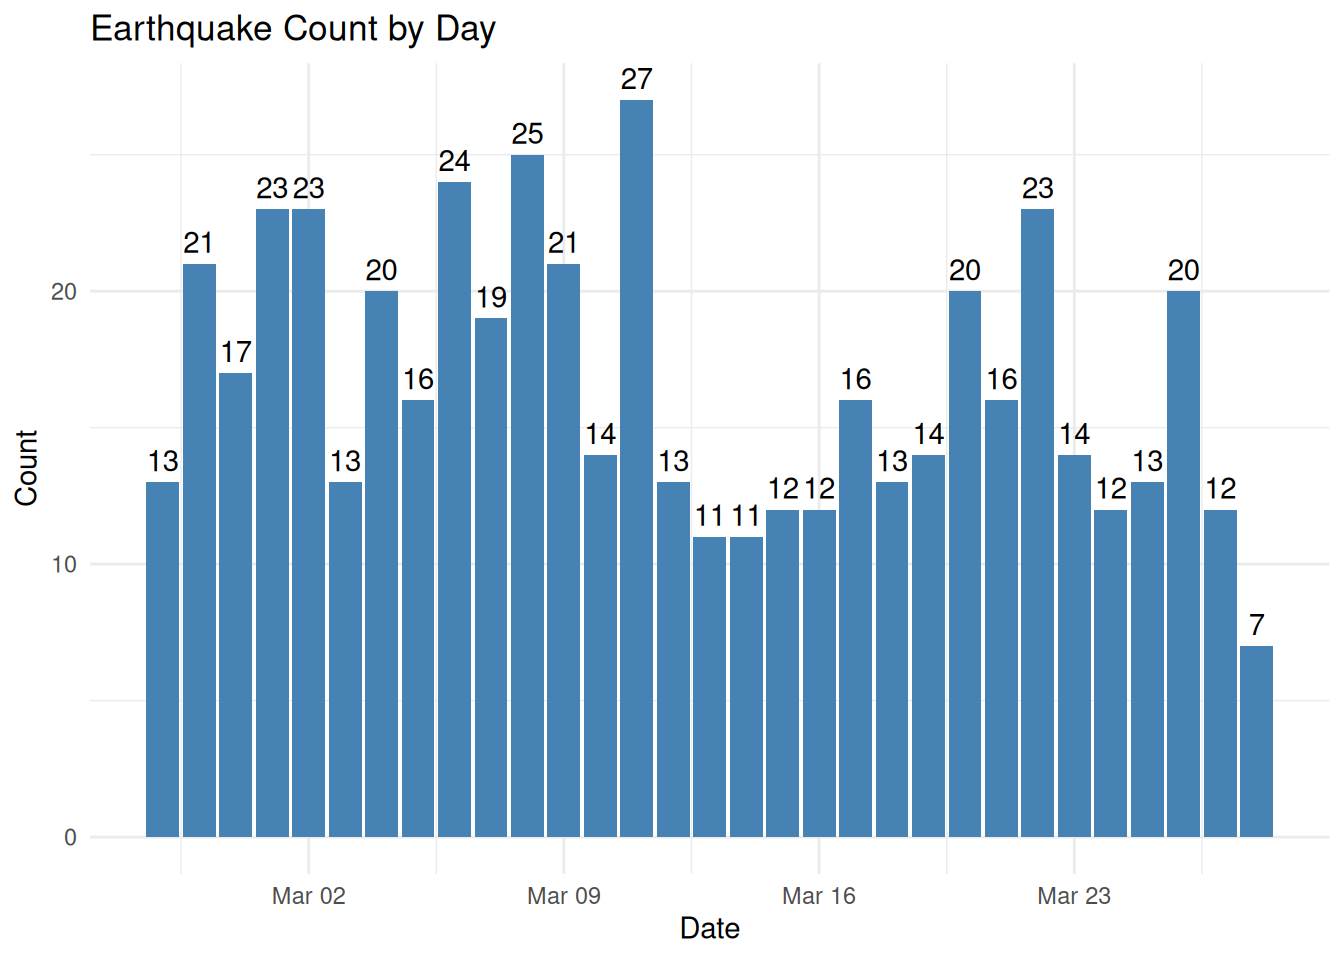
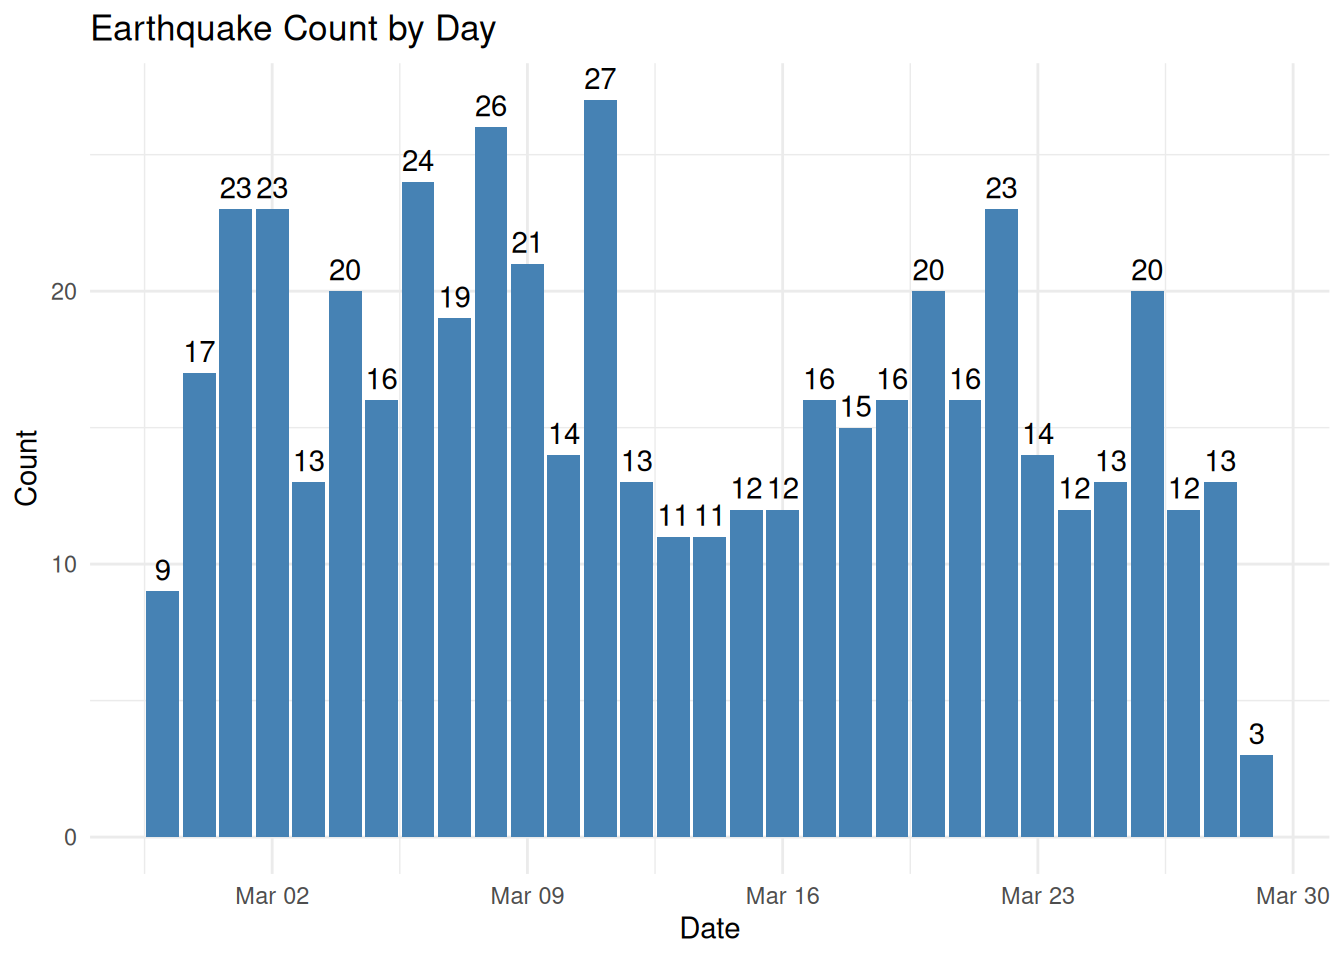
Built site for gh-pages

diff --git a/report.html b/report.html
@@ -190,7 +190,7 @@ pre > code.sourceCode > span > a:first-child::before { text-decoration: underlin
 <div class="cell">
 <div class="code-copy-outer-scaffold"><div class="sourceCode cell-code" id="cb3"><pre class="sourceCode r code-with-copy"><code class="sourceCode r"><span id="cb3-1"><a href="#cb3-1" aria-hidden="true" tabindex="-1"></a>total_earthquakes <span class="ot">&lt;-</span> <span class="fu">nrow</span>(clean)</span></code></pre></div><button title="Copy to Clipboard" class="code-copy-button"><i class="bi"></i></button></div>
 </div>
-<p>The total number of earthquakes in the last 30 days was 515</p>
+<p>The total number of earthquakes in the last 30 days was 504</p>
 <div class="cell">
 <div class="code-copy-outer-scaffold"><div class="sourceCode cell-code" id="cb4"><pre class="sourceCode r code-with-copy"><code class="sourceCode r"><span id="cb4-1"><a href="#cb4-1" aria-hidden="true" tabindex="-1"></a>daily_summary <span class="ot">&lt;-</span> clean <span class="sc">|&gt;</span></span>
 <span id="cb4-2"><a href="#cb4-2" aria-hidden="true" tabindex="-1"></a>  <span class="fu">group_by</span>(<span class="at">date =</span> <span class="fu">as.Date</span>(time)) <span class="sc">|&gt;</span></span>
@@ -203,16 +203,16 @@ pre > code.sourceCode > span > a:first-child::before { text-decoration: underlin
 <pre><code># A tibble: 31 × 2
    date       count
    &lt;date&gt;     &lt;int&gt;
- 1 2026-02-26    13
- 2 2026-02-27    21
- 3 2026-02-28    17
- 4 2026-03-01    23
- 5 2026-03-02    23
- 6 2026-03-03    13
- 7 2026-03-04    20
- 8 2026-03-05    16
- 9 2026-03-06    24
-10 2026-03-07    19
+ 1 2026-02-27     9
+ 2 2026-02-28    17
+ 3 2026-03-01    23
+ 4 2026-03-02    23
+ 5 2026-03-03    13
+ 6 2026-03-04    20
+ 7 2026-03-05    16
+ 8 2026-03-06    24
+ 9 2026-03-07    19
+10 2026-03-08    26
 # ℹ 21 more rows</code></pre>
 </div>
 </div>
